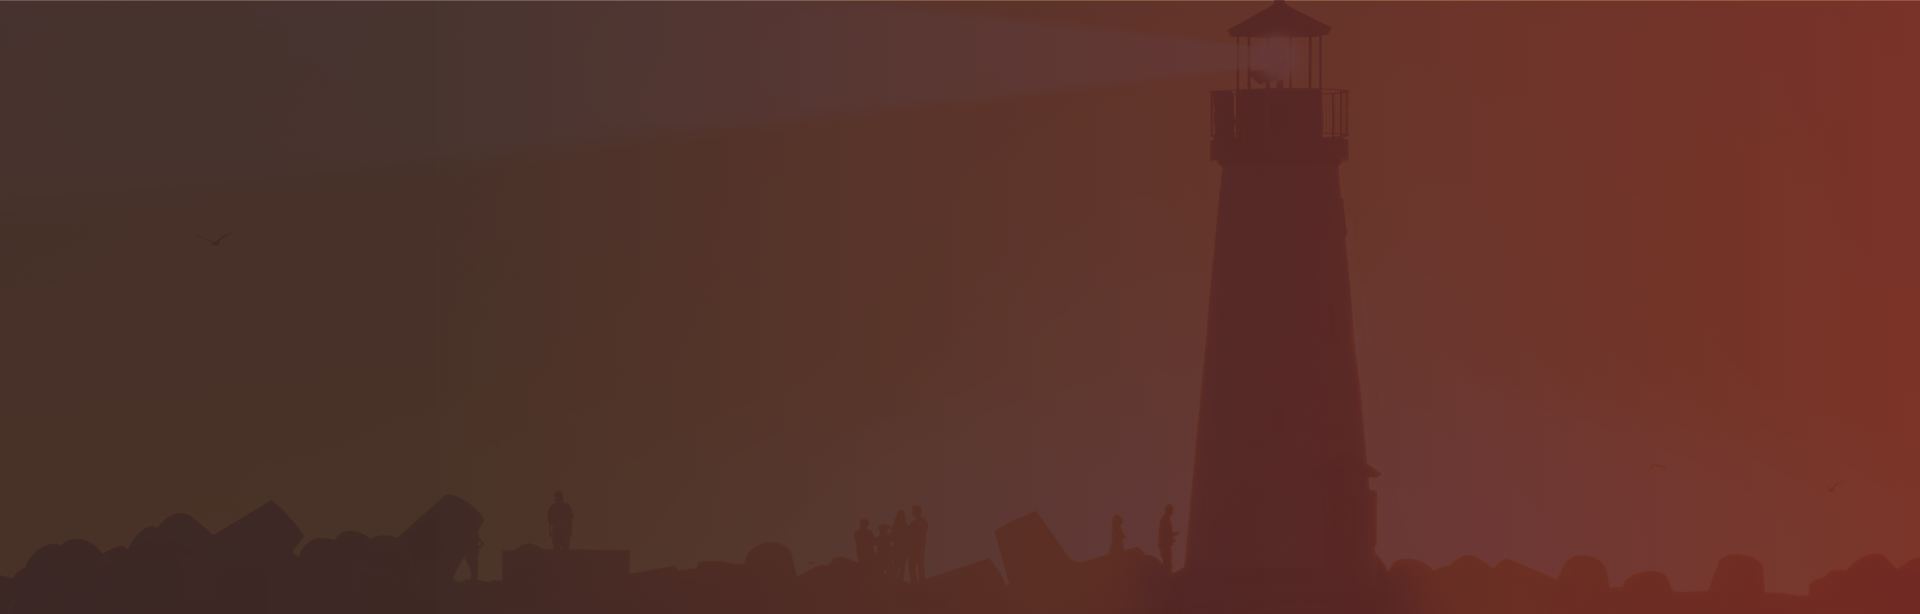
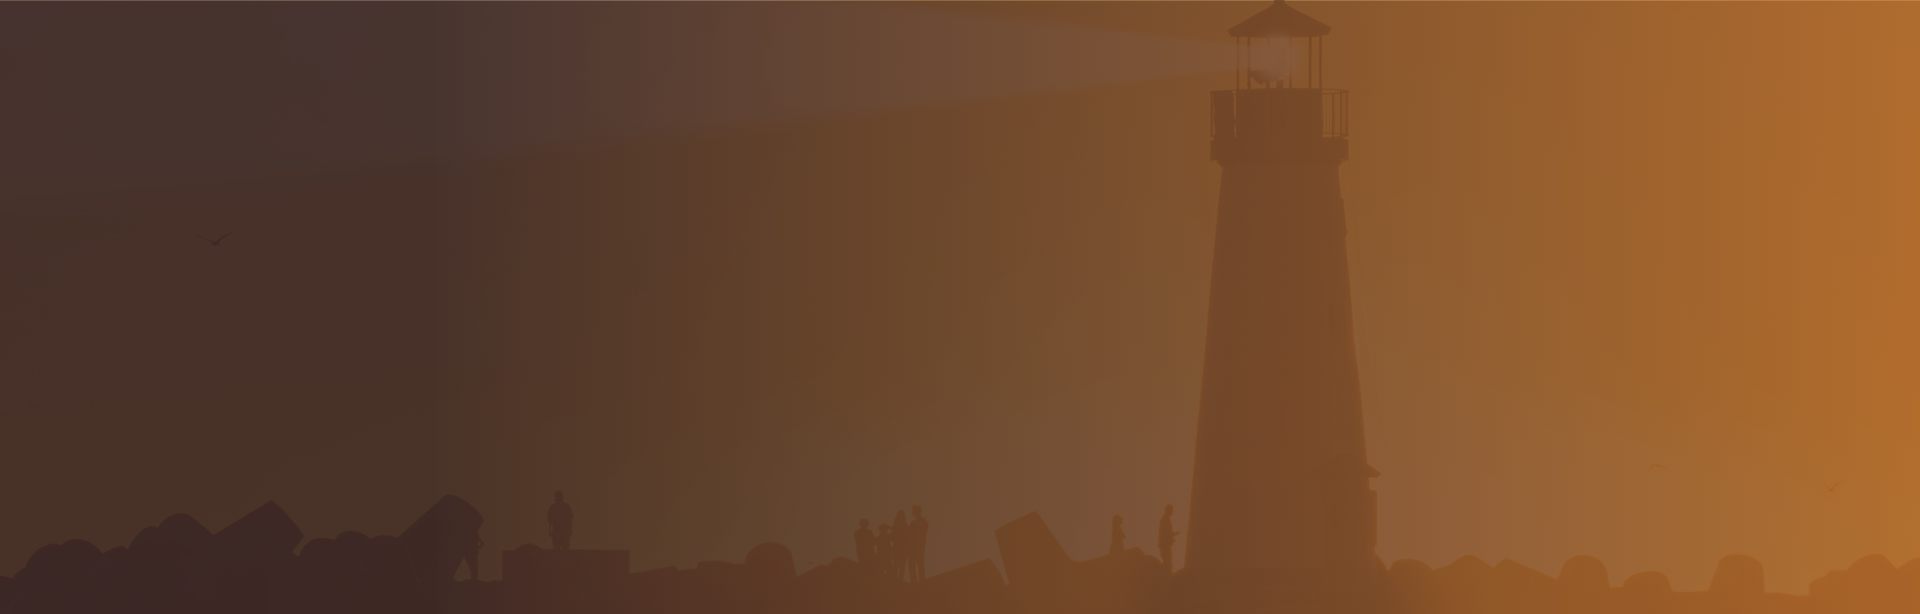
Alterando background dos produtos do header

diff --git a/src/components/header/navHeaderItem/NavHeader.jsx b/src/components/header/navHeaderItem/NavHeader.jsx
@@ -14,27 +14,35 @@ export default function NavHeader({
   icon4,
   titleBtn,
   colorBtn,
+  colorBar,
 }) {
   return (
-    <div className="section-products-item">
-      <img alt={title1} src={icon1} />
-      <p>{title1}</p>
-      <img alt={title2} src={icon2} />
-      <p>{title2}</p>
-      <img alt={title3} src={icon3} />
-      <p>{title3}</p>
-      <img alt={title4} src={icon4} />
-      <p>{title4}</p>
-      <button
-        style={{
-          backgroundColor: colorBtn,
-          color: corTitleBtn,
-        }}
-        type="button"
-      >
-        {titleBtn}
-      </button>
-    </div>
+    <section
+      className="section-info-products"
+      style={{
+        backgroundColor: colorBar,
+      }}
+    >
+      <div className="section-products-item">
+        <img alt={title1} src={icon1} />
+        <p>{title1}</p>
+        <img alt={title2} src={icon2} />
+        <p>{title2}</p>
+        <img alt={title3} src={icon3} />
+        <p>{title3}</p>
+        <img alt={title4} src={icon4} />
+        <p>{title4}</p>
+        <button
+          style={{
+            backgroundColor: colorBtn,
+            color: corTitleBtn,
+          }}
+          type="button"
+        >
+          {titleBtn}
+        </button>
+      </div>
+    </section>
   );
 }
 NavHeader.propTypes = {
@@ -45,6 +53,7 @@ NavHeader.propTypes = {
   titleBtn: PropTypes.string.isRequired,
   corTitleBtn: PropTypes.node.isRequired,
   colorBtn: PropTypes.node.isRequired,
+  colorBar: PropTypes.node.isRequired,
   icon1: PropTypes.string.isRequired,
   icon2: PropTypes.string.isRequired,
   icon3: PropTypes.string.isRequired,

diff --git a/src/components/header/mockProdutosHeader.js b/src/components/header/mockProdutosHeader.js
@@ -3,12 +3,14 @@ import {
   MPBG,
   PARQUET,
   FAROL,
-  PLANILHA,
+  PLANILHAFAROL,
+  PLANILHAPARQUET,
   ARROW,
   REPOSITORIO,
   SEARCH,
   CLOCK,
-  DOCS,
+  DOCFAROL,
+  DOCPARQUET,
   ROBOT,
 } from './index';
 
@@ -17,6 +19,7 @@ export const MOCKPRODUTOSHEADER = [
     id: 'MPRJDigital',
     imgBg: MPBG,
     colorBtn: '#C99E50',
+    colorBar: '#702826',
     corTitleBtn: '#FFF',
     titleBtn: 'Procurar',
     icon1: REPOSITORIO,
@@ -32,30 +35,32 @@ export const MOCKPRODUTOSHEADER = [
     id: 'Farol',
     imgBg: FAROLBG,
     colorBtn: '#CCB0A3',
+    colorBar: '#AB662C',
     corTitleBtn: '#FFFF',
     titleBtn: 'Procurar',
     icon1: FAROL,
     title1: 'Conheça o Farol',
-    icon2: PLANILHA,
+    icon2: PLANILHAFAROL,
     title2: 'Planilhas',
-    icon3: DOCS,
+    icon3: DOCFAROL,
     title3: 'Documentos',
-    icon4: DOCS,
+    icon4: DOCFAROL,
     title4: 'Notas Técnicas',
   },
   {
     id: 'ParquetDigital',
     imgBg: PARQUET,
     colorBtn: '#82D4FF',
+    colorBar: '#3781BD',
     corTitleBtn: '#FFF',
     titleBtn: 'Procurar',
     icon1: ROBOT,
     title1: 'Um Robô em cada Promotoria',
-    icon2: PLANILHA,
+    icon2: PLANILHAPARQUET,
     title2: 'Perfil de Atuação',
-    icon3: DOCS,
+    icon3: DOCPARQUET,
     title3: 'Documentos',
-    icon4: DOCS,
+    icon4: DOCPARQUET,
     title4: 'Documentação',
   },
 ];

diff --git a/src/components/header/index.jsx b/src/components/header/index.jsx
@@ -10,5 +10,9 @@ export { default as SEARCH } from '../../assets/ImgsHeader/search.png';
 export { default as CLOCK } from '../../assets/ImgsHeader/clock.png';
 export { default as FAROL } from '../../assets/ImgsHeader/farol.png';
 export { default as PLANILHA } from '../../assets/ImgsHeader/planilhas.png';
+export { default as PLANILHAFAROL } from '../../assets/ImgsHeader/planilhasFarol.png';
+export { default as PLANILHAPARQUET } from '../../assets/ImgsHeader/planilhasParquet.png';
 export { default as DOCS } from '../../assets/ImgsHeader/docs.png';
+export { default as DOCFAROL } from '../../assets/ImgsHeader/docFarol.png';
+export { default as DOCPARQUET } from '../../assets/ImgsHeader/docParquet.png';
 export { default as ROBOT } from '../../assets/ImgsHeader/robot.png';

diff --git a/src/components/header/Header.jsx b/src/components/header/Header.jsx
@@ -25,9 +25,7 @@ export default function Header() {
             />
           ))}
         </div>
-        <section className="section-info-products">
-          <NavHeader {...MOCKPRODUTOSHEADER.find((btn) => btn.id === changeData)} />
-        </section>
+        <NavHeader {...MOCKPRODUTOSHEADER.find((btn) => btn.id === changeData)} />
       </section>
       <section className="section-explore">
         <div className="section-explore-texts">

diff --git a/src/components/header/navHeaderItem/NavHeader.css b/src/components/header/navHeaderItem/NavHeader.css
@@ -3,7 +3,6 @@
     margin: 20px 20px 20px;
 }
 .section-info-products {
-    background-color: var(--secondColor);
     border-radius: 5px 5px 5px 5px;
     width: 720px;
     height: 70px;
